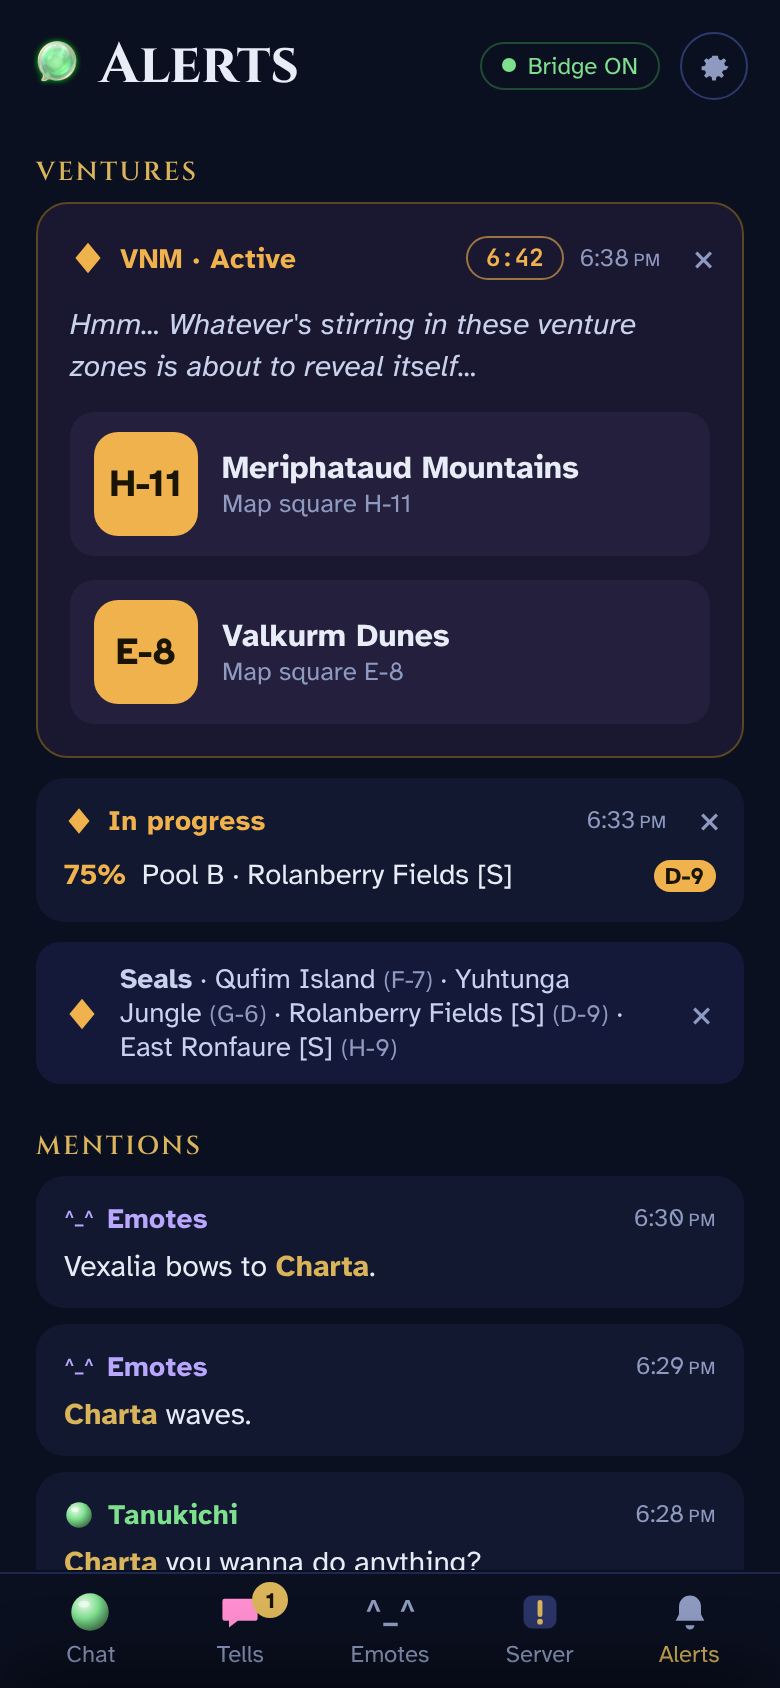
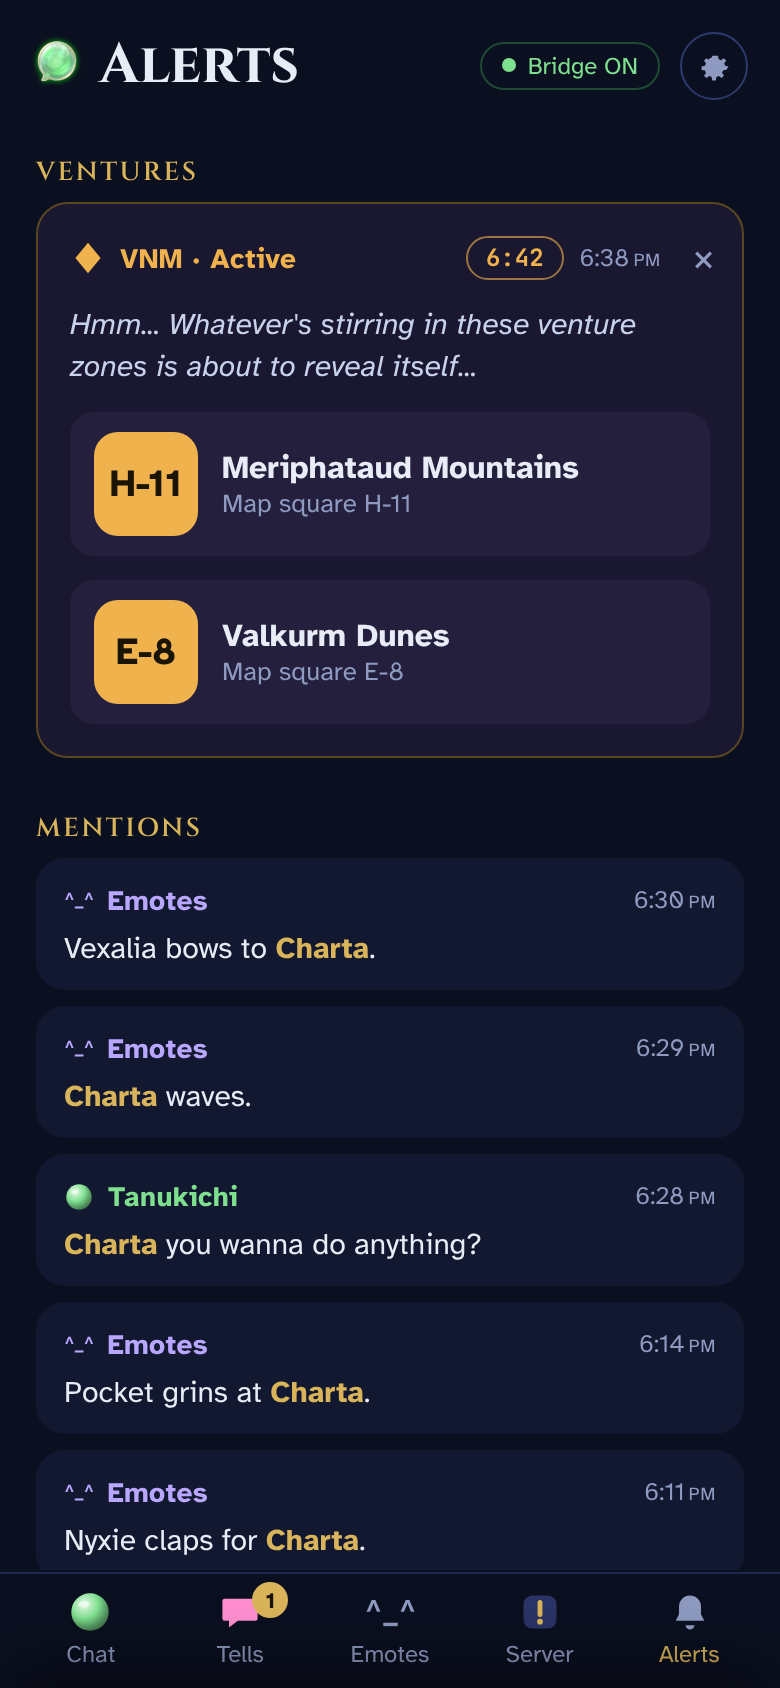
Alerts: show only Populox's VNM alert
Stop reading the ventures addon's progress line, the Active Venture Seals
line and the "venture is currently taking place" line. The Ventures section
shows only the VNM card, plus a plain-text fallback for a reworded Populox
line. Lines printed by other addons are only written to the debug log.

Claude-Session: https://claude.ai/code/session_01PdNqd8TqYktQissLKSxrwy

diff --git a/bridge/index.html b/bridge/index.html
@@ -206,7 +206,6 @@ body.typing .tabbar{display:none}
 .vgrid{flex:none;width:52px;height:52px;border-radius:12px;background:var(--vent);color:var(--ink);display:flex;align-items:center;justify-content:center;font-weight:700;font-size:19px}
 .vrow{display:flex;gap:10px;align-items:baseline;font-size:14.5px;padding:3px 0}
 .vrow .vm{flex:1;min-width:0}
-.vrow .vpct{margin-right:8px}
 .vt{flex:none;font-size:12.5px;color:var(--mute);font-weight:400}
 .acard{border-radius:14px;background:var(--raise);padding:11px 14px 12px;display:flex;flex-direction:column;gap:5px;margin-bottom:8px}
 .ah{display:flex;align-items:center;gap:8px;min-height:20px}
@@ -214,12 +213,10 @@ body.typing .tabbar{display:none}
 .ah .al b{font-weight:700;letter-spacing:.2px}
 .ax{flex:none;color:var(--mute);font-size:20px;line-height:1;padding:0 2px 0 8px;margin:-4px -4px -4px 0}
 .abody{font-size:15px}
-.vpct{flex:none;min-width:44px;font-weight:700;color:var(--vent)}
 .vgrid.sm{width:auto;height:auto;padding:1px 6px;font-size:12px}
 .empty.sm{padding:6px 2px 10px;font-size:13.5px;text-align:left}
 #alerts .sect{margin-top:6px}
 .vcard{margin-bottom:10px}
-.vstatus{padding:10px 14px;border-radius:12px;background:#14193a;display:flex;gap:10px;align-items:center;font-size:14px;color:var(--soft);margin-top:10px}
 
 /* settings */
 .srow{display:flex;align-items:center;gap:12px;padding:10px 0;border-bottom:1px solid var(--line)}
@@ -248,8 +245,6 @@ body.typing .tabbar{display:none}
 .banner .linkbtn{margin-left:6px}
 .cd{flex:none;margin-left:8px;padding:2px 9px;border:1px solid color-mix(in srgb,var(--vent) 60%,transparent);border-radius:999px;color:var(--vent);font:700 12px var(--mono);white-space:nowrap}
 .vm .cd{font-size:11px;padding:1px 7px;margin-left:6px;vertical-align:1px}
-.vstatus span{flex:1}
-.vstatus .ax{margin:0}
 /* colors */
 .swatch{flex:none;width:44px;height:30px;border-radius:8px;border:1px solid var(--edge2);padding:0;background:none;overflow:hidden;-webkit-appearance:none;appearance:none}
 .swatch::-webkit-color-swatch-wrapper{padding:0}
@@ -1608,20 +1603,12 @@ function tickCd() {
   if (done) schedule();
 }
 function renderAlerts() {
-  var v = msgs.filter(function (m) { return m.ch === "venture"; });
+  // Ventures: only Populox's VNM alert ("Hmm... something's stirring" plus the zones).
+  var v = msgs.filter(function (m) { return m.ch === "venture" && m.name === "Populox"; });
   var hid = {};
   (S.hidden || []).forEach(function (k) { hid[k] = 1; });
   var DONE = nowSec() - 600;      // a venture is over about 10 minutes after its alert, so old ones fade
-  var pop = v.filter(function (m) { return m.zones && m.name !== "Seals"; }).reverse();
-  var seals = v.filter(function (m) { return m.name === "Seals"; }).pop();
-  var zoneLine = v.filter(function (m) { return m.name === "Zone"; }).pop();
-  var latest = {};
-  v.forEach(function (m) { if (m.name === "ventures" && m.area) latest[(m.pool || "") + "|" + m.area] = m; });
-  function rk(m) { return "va|" + (m.pool || "") + "|" + m.area + "|" + m.ts; }
-  var liveVnm = pop.length && pop[0].ts >= DONE && !hid["v|" + noticeKey(pop[0])];
-  var addon = Object.keys(latest).map(function (k) { return latest[k]; })
-    .filter(function (m) { return !(m.pct >= 100 && (m.ts < DONE || liveVnm)) && !hid[rk(m)]; })
-    .sort(function (a, b) { return b.ts - a.ts; }).slice(0, 8);
+  var pop = v.filter(function (m) { return m.zones; }).reverse();
   // Every alert card has the same head: icon and a bold label on the left, the time on the right.
   function card(icon, color, label, ts, body, x) {
     return '<div class="acard" style="--c:' + color + '"><div class="ah"><span class="al">' + ico(icon, 15) + "<b>" + label + "</b></span>" +
@@ -1642,26 +1629,16 @@ function renderAlerts() {
         (a.teaser ? '<div class="vteaser">' + esc(a.teaser) + "</div>" : "") + vzones(a.zones) + "</div>";
     }
   }
-  if (addon.length) {
-    h += card("vent", "var(--vent)", "In progress", addon[0].ts, addon.map(function (m) {
-      return row('<span class="vpct">' + Math.round(m.pct) + "%</span>" + (m.pool ? "Pool " + esc(m.pool) + " &middot; " : "") + esc(m.area), 0, m.grid ? '<span class="vgrid sm">' + esc(m.grid) + "</span>" : "");
-    }).join(""), addon.map(rk).join(";;"));
-  }
-  if (seals && !hid["s|" + seals.ts]) {
-    h += '<div class="vstatus">' + ico("vent", 18) + "<span><b>Seals</b> &middot; " + (seals.zones ? zl(seals.zones, " &middot; ") : esc(seals.body)) + '</span><button class="ax" data-dismiss="s|' + seals.ts + '" aria-label="Dismiss">&times;</button></div>';
-  }
-  // Safety net: a venture line the page doesn't understand (say CatsEye rewords Populox or the
-  // ventures addon) still shows as plain text instead of vanishing. Kept for 30 minutes.
+  // Safety net: a Populox line the page can't read (say CatsEye rewords it) still shows as plain
+  // text instead of vanishing. Kept for 30 minutes.
   var odd = v.filter(function (m) {
-    if (m.name === "Seals" || m.name === "Zone" || m.zones) return false;
-    if (m.name === "ventures" && m.area) return false;
-    if (m.name === "Populox" && pop.some(function (p) { return p.teaser === m.body && Math.abs(p.ts - m.ts) < 10; })) return false;
+    if (m.zones) return false;
+    if (pop.some(function (p) { return p.teaser === m.body && Math.abs(p.ts - m.ts) < 10; })) return false;
     return m.ts >= nowSec() - 1800 && !hid["vo|" + m.ts + "|" + (m.body || "").slice(0, 24)];
   }).slice(-3).reverse();
   odd.forEach(function (m) {
-    h += card("vent", "var(--vent)", esc(m.name === "ventures" ? "Ventures addon" : (m.name || "Venture")), m.ts, '<div class="abody">' + fmt(m.body) + "</div>", "vo|" + m.ts + "|" + (m.body || "").slice(0, 24));
+    h += card("vent", "var(--vent)", "Populox", m.ts, '<div class="abody">' + fmt(m.body) + "</div>", "vo|" + m.ts + "|" + (m.body || "").slice(0, 24));
   });
-  if (zoneLine && zoneLine.ts >= DONE && !hid["z|" + zoneLine.ts]) h += '<div class="vstatus">' + ico("vent", 18) + "<span>" + esc(zoneLine.body) + '</span><button class="ax" data-dismiss="z|' + zoneLine.ts + '" aria-label="Dismiss">&times;</button></div>';
   $("vent").innerHTML = '<div class="sect">VENTURES</div>' + (h || '<div class="empty sm">No venture news yet.</div>');
 
   var men = msgs.filter(function (m) { return m._men; }).slice(-30).reverse();

diff --git a/tools/fakefeed.py b/tools/fakefeed.py
@@ -33,12 +33,8 @@ SESSION = [
     (4,  "finder",  "in", "", "Seul is looking for members: Venture (Lv57) - Melee Venture need lv18-20 Join to PF"),
     (4,  "ls1",     "in", "Tolliver", "{I can understand a little.} guide https://www.bg-wiki.com/ffxi/CatsEyeXI_Commands"),
     (5,  "server",  "in", "", "This command may only be used in cities."),
-    (5,  "venture", "in", "ventures", "Pool B Rolanberry Fields [S] is now 75% complete at (D-9)"),
     (6,  "ls1",     "in", "Quenby", "selling {{Suppanomimi}} for {Looking for party}"),
-    (5,  "venture", "in", "Seals", "Qufim Island (F-7) / Yuhtunga Jungle (G-6), Rolanberry Fields [S] (D-9) / East Ronfaure [S] (H-9)"),
-    (6,  "venture", "in", "ventures", "Pool A Meriphataud Mountains is now 95% complete at (H-11)"),
     (8,  "ls1",     "in", "Marlow", "<call 1>"),
-    (6,  "venture", "in", "ventures", "Pool A Meriphataud Mountains is now 100% complete at (H-11)"),
     (1,  "venture", "in", "Populox", "Hmm... Whatever's stirring in these venture zones is about to reveal itself..."),
     (1,  "venture", "in", "Populox", "Meriphataud Mountains (H-11) / Valkurm Dunes (E-8)"),
     (6,  "ls1",     "in", "Tolliver", "nice, VNM time"),
@@ -54,9 +50,9 @@ CHATTER = [
     ("shout", "Seller", "WTS rare stuff cheap"), ("ls1", "Marlow", "gg"),
 ]
 ZONES = [
-    ("Meriphataud Mountains (H-11) / Valkurm Dunes (E-8)", "Meriphataud Mountains", "H-11"),
-    ("Fort Karugo-Narugo [S] (G-5) / Grauberg [S] (J-9)", "Fort Karugo-Narugo [S]", "G-5"),
-    ("Qufim Island (F-7) / Yuhtunga Jungle (G-6)", "Qufim Island", "F-7"),
+    "Meriphataud Mountains (H-11) / Valkurm Dunes (E-8)",
+    "Fort Karugo-Narugo [S] (G-5) / Grauberg [S] (J-9)",
+    "Qufim Island (F-7) / Yuhtunga Jungle (G-6)",
 ]
 
 
@@ -97,11 +93,10 @@ def main():
                 emit(path, ch, "in", name, body)
             z = ZONES[n % len(ZONES)]
             time.sleep(10 / speed)
-            emit(path, "venture", "in", "ventures", "Pool A %s is now 100%% complete at (%s)" % (z[1], z[2]))
             time.sleep(1 / speed)
             emit(path, "venture", "in", "Populox", "Hmm... Whatever's stirring in these venture zones is about to reveal itself...")
             time.sleep(1 / speed)
-            emit(path, "venture", "in", "Populox", z[0])
+            emit(path, "venture", "in", "Populox", z)
             time.sleep(150 / speed)
     except KeyboardInterrupt:
         print("\nStopped.")

diff --git a/bridge/bridge.py b/bridge/bridge.py
@@ -72,7 +72,6 @@ ARGS_RE = re.compile(r"^[A-Za-z0-9 _\-]{0,40}$")
 CALL_RE = re.compile(r"<\s*call\s*(\d{1,2})\s*>", re.I)
 ZONE_RE = re.compile(r"^\s*(.+?)\s*\(([A-Z]-\d+)\)\s*$")
 YELL_RE = re.compile(r"^(.+?)\[(.*)\]$")
-ALERT_RE = re.compile(r"^(?:Pool ([AB]) )?(.+?) is now ([\d.]+)% complete(?: at \(([A-Z]-\d+)\))?")
 
 CURLY = {"‘": "'", "’": "'", "“": '"', "”": '"', "…": "...",
          "–": "-", "—": "-", " ": " "}
@@ -488,21 +487,6 @@ class Tailer(threading.Thread):
             self.tells.record(msg)
 
     def handle_venture(self, char, msg):
-        if msg["name"] == "Seals":                   # "A (F-7) / B (G-6), C (D-9) / D (H-9)"
-            pairs = [parse_zones(p) for p in msg["body"].split(", ")]
-            if all(pairs):
-                msg["zones"] = [z for pair in pairs for z in pair]
-            store.add(msg)
-            return
-        if msg["name"] == "ventures":                # alert line from the ventures addon
-            m = ALERT_RE.match(msg["body"])
-            if m:
-                msg["pool"], msg["area"] = m.group(1) or "", m.group(2)
-                msg["pct"] = float(m.group(3))
-                if m.group(4):
-                    msg["grid"] = m.group(4)
-            store.add(msg)
-            return
         zones = parse_zones(msg["body"])
         with self.plock:
             held = self.pending.pop(char, None)

diff --git a/CHANGELOG.md b/CHANGELOG.md
@@ -18,9 +18,7 @@ Two checks are stricter:
 
 - "X examines you" lines, shown with emotes.
 - Other players' emotes on every chat mode they use. Emotes were already read in 1.0.0.
-- The ventures addon's progress line (`[ventures] Pool A ... is now 75% complete at (G-5)`), and only that line. phonechatXI doesn't read the ventures addon's packets or replace it.
 - Party Finder ads, as their own chat channel (on by default). Not shown in Alerts.
-- The "Active Venture Seals" and "a venture is currently taking place" server lines.
 - Bazaar visits ("X begins to browse your bazaar"). Off by default.
 - The linkshell message of the day, pinned above chat instead of listed in Notices.
 
@@ -30,7 +28,7 @@ Two checks are stricter:
 - The addon starts and stops the bridge: `/pchat start`, `/pchat stop`, or Start with the game. Tested on Steam Deck in Game Mode. Windows is untested.
 - An in-game window (`/pchat`) with bridge on/off, the QR code, New phone link and settings. It opens by itself the first time. `/pchat help` prints the commands in chat.
 - `/phonechat` works as a command.
-- `/pchat debug` also logs lines printed by other addons, flagged as such. The debug log starts over past 2 MB.
+- `/pchat debug` also logs lines printed by other addons, flagged as such. They're only logged, never sent to the phone. The debug log starts over past 2 MB.
 - The bridge logs to `~/phonechat/bridge.log` on the Deck.
 - Desktop Mode: a phonechatXI Bridge launcher in the phonechat folder starts the bridge and opens the QR page.
 - Test tools in `tools/` (not in the addon zip): `fakefeed.py` plays a made-up session into the bridge, and `replay.py` plays a `/pchat debug` log back through the addon code with a fake Ashita that can't type or start programs.
@@ -58,15 +56,13 @@ Chat
 - The chat box stays above the iPhone keyboard.
 
 Alerts
-- Tabs are Chat, Tells, Emotes, Server (CatsEye `!` commands) and Alerts (ventures, mentions, bazaar, notices). Emotes and the `!` commands each have their own tab instead of sharing one called Commands.
+- Tabs are Chat, Tells, Emotes, Server (CatsEye `!` commands) and Alerts (VNM, mentions, bazaar, notices). Emotes and the `!` commands each have their own tab instead of sharing one called Commands.
 - The Server tab opens on the full `!` command list: one line each, a search box, a star to keep one at the bottom, and CONFIRM on the ones that change something. Tapping a command asks before it sends. Commands that need more after them, like `!box`, go in the box instead so you can finish typing. Replies show in a small area under the list.
 - Game modes: a command that only works in some of ACE, CW or WEW shows those modes' icons, and a filter (All, ACE, CW, WEW) under the search box shows only what works for your mode. The filter is remembered. It only tidies the list: favorites always show, and any command can still be typed and sent. The mode list lives in `commands.json` ("as of October 2026") and only labels and filters; it doesn't change what can be sent.
 - Emotes use a text `^_^` icon everywhere (tab, chat lines, picker) instead of a smiley.
-- The VNM alert shows as VNM · Active with a 10 minute countdown, then VNM · Expired on one line. Only the latest VNM is shown.
-- Pools under 100% are listed on one In progress card. A pool at 100% shows on the VNM card instead, and drops off with it after 10 minutes.
-- Active seals show as one line.
-- If a venture line is worded differently than expected, it still shows in Alerts as plain text instead of disappearing.
-- Venture cards, seals and notices can be cleared with ×. Notices also have Clear all. Clearing only hides them on the phone, and it's remembered.
+- Ventures shows only Populox's VNM alert: VNM · Active with a 10 minute countdown, then VNM · Expired on one line. Only the latest VNM is shown.
+- If Populox's line is worded differently than expected, it still shows in Alerts as plain text instead of disappearing.
+- The VNM card and notices can be cleared with ×. Notices also have Clear all. Clearing only hides them on the phone, and it's remembered.
 
 Look and settings
 - Text buttons (Save them, Got it, Show QR, Export, Import, Reset, Clear all) have an outline so they read as buttons.

diff --git a/README.md b/README.md
@@ -37,7 +37,7 @@ Needs Ashita v4 (the CatsEye launcher), Python 3.7 or newer (already on the Stea
 - The LS message of the day is pinned above chat.
 - An Emotes tab with the stock emotes, plus dances, chair poses and job emotes.
 - A Server tab with every CatsEye `!` command in a searchable list, filterable by game mode (ACE, CW, WEW). Star the ones you use. Tapping one asks before it sends.
-- An Alerts tab: Populox's VNM alert with a 10 minute countdown, the ventures addon's progress, active seals, mentions, server notices and, if you turn it on, bazaar visits. Tap × to clear one.
+- An Alerts tab: Populox's VNM alert with a 10 minute countdown, mentions, server notices and, if you turn it on, bazaar visits. Tap × to clear one.
 - An emoticon button. Emoji turn into text as you type (😀 becomes `:D`, 👀 becomes `<_<`), since the game can't show them.
 - Three skins (Midnight, Classic, Onyx), two fonts, a compact layout, text size, 12 or 24-hour time and per-channel colors. Settings are saved on the bridge and can be exported.
 
@@ -51,7 +51,7 @@ Needs Ashita v4 (the CatsEye launcher), Python 3.7 or newer (already on the Stea
   <img src="docs/screenshots/chat-compact.png" width="180" alt="Compact layout">
   <img src="docs/screenshots/send-to.png" width="180" alt="Choosing where to send">
   <img src="docs/screenshots/emote-action.png" width="180" alt="Emotes view showing only emote lines">
-  <img src="docs/screenshots/ventures.png" width="180" alt="VNM alert with countdown, ventures progress and seals">
+  <img src="docs/screenshots/ventures.png" width="180" alt="VNM alert with countdown">
 </p>
 
 ## What it won't do
@@ -61,7 +61,7 @@ Needs Ashita v4 (the CatsEye launcher), Python 3.7 or newer (already on the Stea
 - Use `/yell`.
 - Split messages. One tap sends one line of 130 characters at most, and no more than one line per second.
 - Read the combat log.
-- Replace the ventures addon. It shows that addon's progress line and nothing else.
+- Read other addons. Lines they print are ignored, the ventures addon's included.
 - Go online. There's no cloud or outside server. The only outside page is BG-Wiki, when you tap an item.
 
 What it can send is a fixed list: `/l`, `/l2`, `/p`, `/t`, `/s`, `/sh`, the stock emotes, and the `!` commands in [`bridge/commands.json`](bridge/commands.json). The bridge checks every line, and the addon checks it again right before typing it. The addon's check is `allowed()` in [`phonechat.lua`](addon/phonechat/phonechat.lua).
@@ -75,7 +75,7 @@ What it can send is a fixed list: `/l`, `/l2`, `/p`, `/t`, `/s`, `/sh`, the stoc
 
 ### New in 1.1.0 (not reviewed yet)
 
-- Reads "X examines you", the ventures addon's progress line, Party Finder ads, the Active Venture Seals line, bazaar visits (off by default) and the LS message of the day.
+- Reads "X examines you", Party Finder ads, bazaar visits (off by default) and the LS message of the day.
 - Starts and stops the bridge when you ask, and shows the QR code in an in-game window.
 - Sends the same list as 1.0.0. A `;` followed by a command is now blocked.
 

diff --git a/tools/README.md b/tools/README.md
@@ -6,7 +6,7 @@ Close the game first, then start the bridge by itself (the phonechatXI Bridge la
 
 ## fakefeed.py
 
-Plays a short made-up session into the bridge: linkshell chat, tells, emotes, a Party Finder ad, a Populox VNM alert with the ventures addon's lines, seals, Apururu and a bazaar visit. The lines are already in the format the addon writes, so this tests the bridge and the phone page.
+Plays a short made-up session into the bridge: linkshell chat, tells, emotes, a Party Finder ad, a Populox VNM alert, Apururu and a bazaar visit. The lines are already in the format the addon writes, so this tests the bridge and the phone page.
 
 ```
 python3 fakefeed.py            one session
